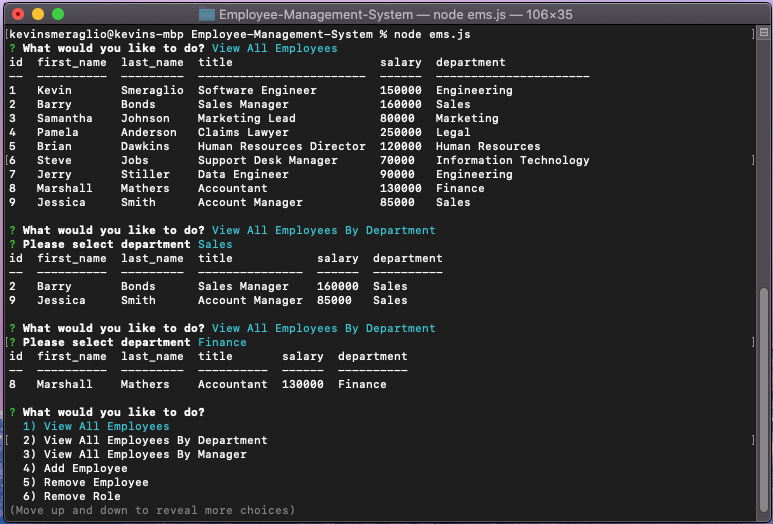
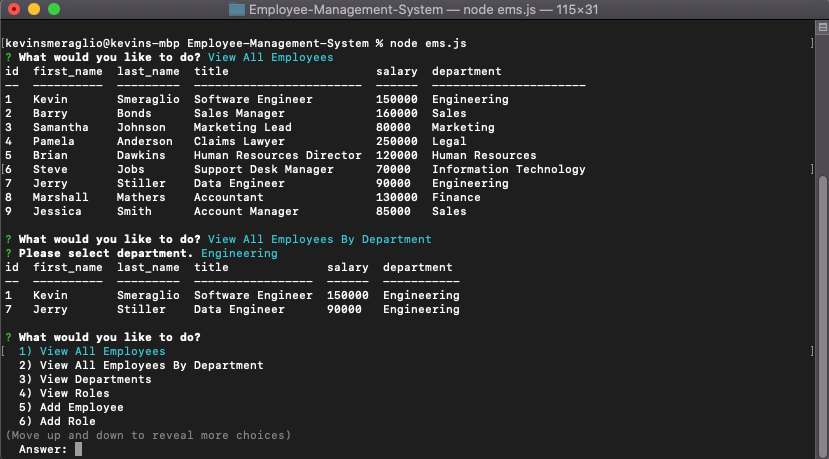
final updates, updated readme

Changed region(s): [[0.0, 0.0, 1.0, 1.0]]

diff --git a/ems.js b/ems.js
@@ -31,7 +31,6 @@ function promptUser() {
             choices: [
                 "View All Employees",
                 "View All Employees By Department",
-                "View All Employees By Manager",
                 "View Departments",
                 "View Roles",
                 "Add Employee",
@@ -41,8 +40,6 @@ function promptUser() {
                 "Remove Role",
                 "Remove Department",
                 "Update Employee Role",
-                "Update Employee Manager",
-                "View Total Utilized Budget by Department",
                 "Exit"
             ]
         })
@@ -54,10 +51,6 @@ function promptUser() {
 
                 case "View All Employees By Department":
                     viewEmployeesByDep();
-                    break;
-
-                case "View All Employees By Manager":
-                    viewEmployeesByManager();
                     break;
 
                 case "View Departments":
@@ -96,14 +89,6 @@ function promptUser() {
                     updateEmployeeRole();
                     break;
 
-                case "Update Employee Manager":
-                    updateEmployeeManager();
-                    break;
-
-                case "View Total Utilized Budget by Department":
-                    viewBudget();
-                    break;
-
                 case "Exit":
                     connection.end();
                     break;
@@ -128,7 +113,7 @@ function viewEmployeesByDep() {
             {
                 type: "list",
                 name: "depChoice",
-                message: "Please select department",
+                message: "Please select department.",
                 choices: ["Engineering", "Legal", "Sales", "Marketing", "Human Resources", "Finance", "Information Technology"]
             }
         ).then(function (answer) {

diff --git a/README.md b/README.md
@@ -6,6 +6,12 @@
 
   ![image description](./images/ems-1.png)
 
+  ![image description](./images/ems-2.png)
+
+  ![image description](./images/ems-3.png)
+
+  ![image description](./images/ems-4.png)
+
   ## Table of Contents
   
   - [Installation](#installation)
